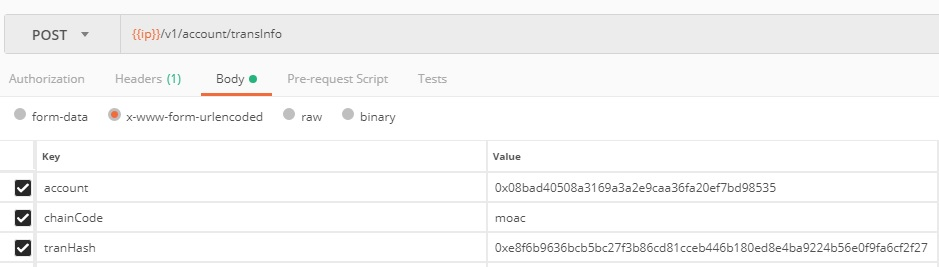
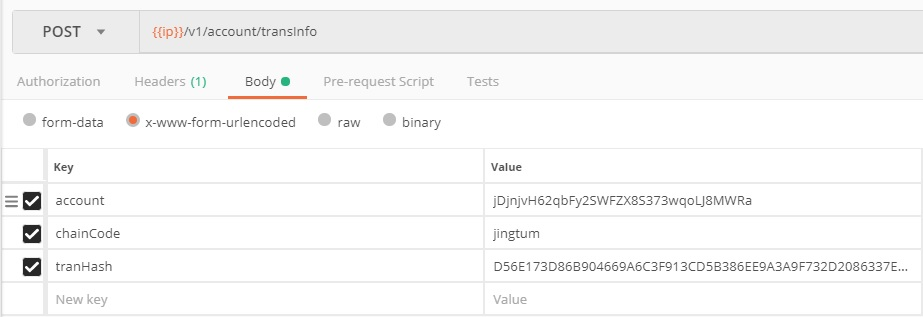
adjust

diff --git a/doc/v0.9.9/chapter04.md b/doc/v0.9.9/chapter04.md
@@ -47,7 +47,6 @@
 |success|boolean|是否成功（true：成功）|
 |data|Object|返回数据|
 |data.privateKey|String|账户的私钥|
-|data.publicKey|String|账户的公钥|
 |data.addr|String|账户地址|
 
 - 返回示例图：
@@ -224,10 +223,10 @@
 |message|String|返回信息|
 |success|boolean|是否成功（true：成功）|
 |data|Object|返回数据|
-|address|String|账户地址|
-|balance|String|余额|
-|tokenCode|String|通证编码|
-|freezed|String|冻结金额|
+|data.address|String|账户地址|
+|data.balance|String|余额|
+|data.tokenCode|String|通证编码|
+|data.freezed|String|冻结金额|
 
 - 返回示例图：
 --- 
@@ -272,7 +271,7 @@
 - 请求示例代码：
 ---
 ```
-/v1/account/transInfo?account=0x08bad40508a3169a3a2e9caa36fa20ef7bd98535&chainCode=moac&tranHash=0xe8f6b9636bcb5bc27f3b86cd81cceb446b180ed8e4ba9224b56e0f9fa6cf2f27
+account=jDjnjvH62qbFy2SWFZX8S373wqoLJ8MWRa&chainCode=jingtum&tranHash=D56E173D86B904669A6C3F913CD5B386EE9A3A9F732D2086337EF5404AC24A0A
 ```
 
 - 结果返回参数：  
@@ -288,6 +287,8 @@
 |data.gasFee|String|交易费用|
 |data.amount|String|支付金额|
 |data.memos|String|记录内容|
+|data.blockNumber|String|区块编号（交易记录一旦写入区块后才返回该字段）|
+|data.state|String|状态（-1：交易失败 1:等待 9：交易成功）|
 |data.tranHash|String|交易的hash|
 |data.destAccount|String|接受方的账户|
 |data.srcAccount|String|支付方的账户|
@@ -301,14 +302,16 @@
 {
     "code": "200",
     "data": {
-        "tradeTime": "1529479081",
-        "tokenCode": null,
-        "gasFee": "2.5E13",
-        "amount": null,
-        "memos": "",
-        "destAccount": "0x08bad40508a3169a3a2e9caa36fa20ef7bd98535",
[1 lines of base64/hex data omitted]
-        "srcAccount": "0x32d012e43fdc978260cee98f5f6899a6cb18a148"
+        "tradeTime": 1532072250000,
+        "tokenCode": "SWT",
+        "gasFee": "0.01",
+        "amount": "0.2",
+        "memos": "accout transfer 0.2swt",
+        "blockNumber": "10222917",
+        "destAccount": "jEWtMWS6FBXyj1U1c4X8u5VnFpZtZ3rUMZ",
+        "state": "9",
[1 lines of base64/hex data omitted]
+        "srcAccount": "jDjnjvH62qbFy2SWFZX8S373wqoLJ8MWRa"
     },
     "message": "",
     "success": true

diff --git a/doc/v0.9.9/chapter02.md b/doc/v0.9.9/chapter02.md
@@ -211,6 +211,7 @@
 |data|Object|返回数据|
 |data.walletAddr|String|钱包地址,通过该地址可以找到账户|
 |data.userId|String|用户Id|
+|data.walletAddr|String|钱包地址|
 |data.password|String|查询密码|
 |data.accounts|list|账户列表|
 |data.accounts.chainCode|String |区块链的编码|
@@ -292,6 +293,7 @@
 |data|Object|返回数据|
 |data.appId|String|应用Id|
 |data.userId|String|用户Id|
+|data.walletAddr|String|钱包地址|
 |data.accounts|list|账户列表|
 |data.accounts.chainCode|String|区块链编码|
 |data.accounts.account|String|账户|  

diff --git a/doc/v0.9.9/chapter03.md b/doc/v0.9.9/chapter03.md
@@ -442,6 +442,7 @@
 |data.gasFee|String|Gas费用|
 |data.chainCode|String|区块链编码|
 |data.memos|String|记录内容|
+|data.blockNumber|String|区块号（仅当入参forceRefresh为true时，可以获取已写入区块的区块号）|
 |data.destAccount|String|接受方的账户|
 |data.srcAccount|String|支付方的账户|
 |data.tranHash|String|交易的hash值|
